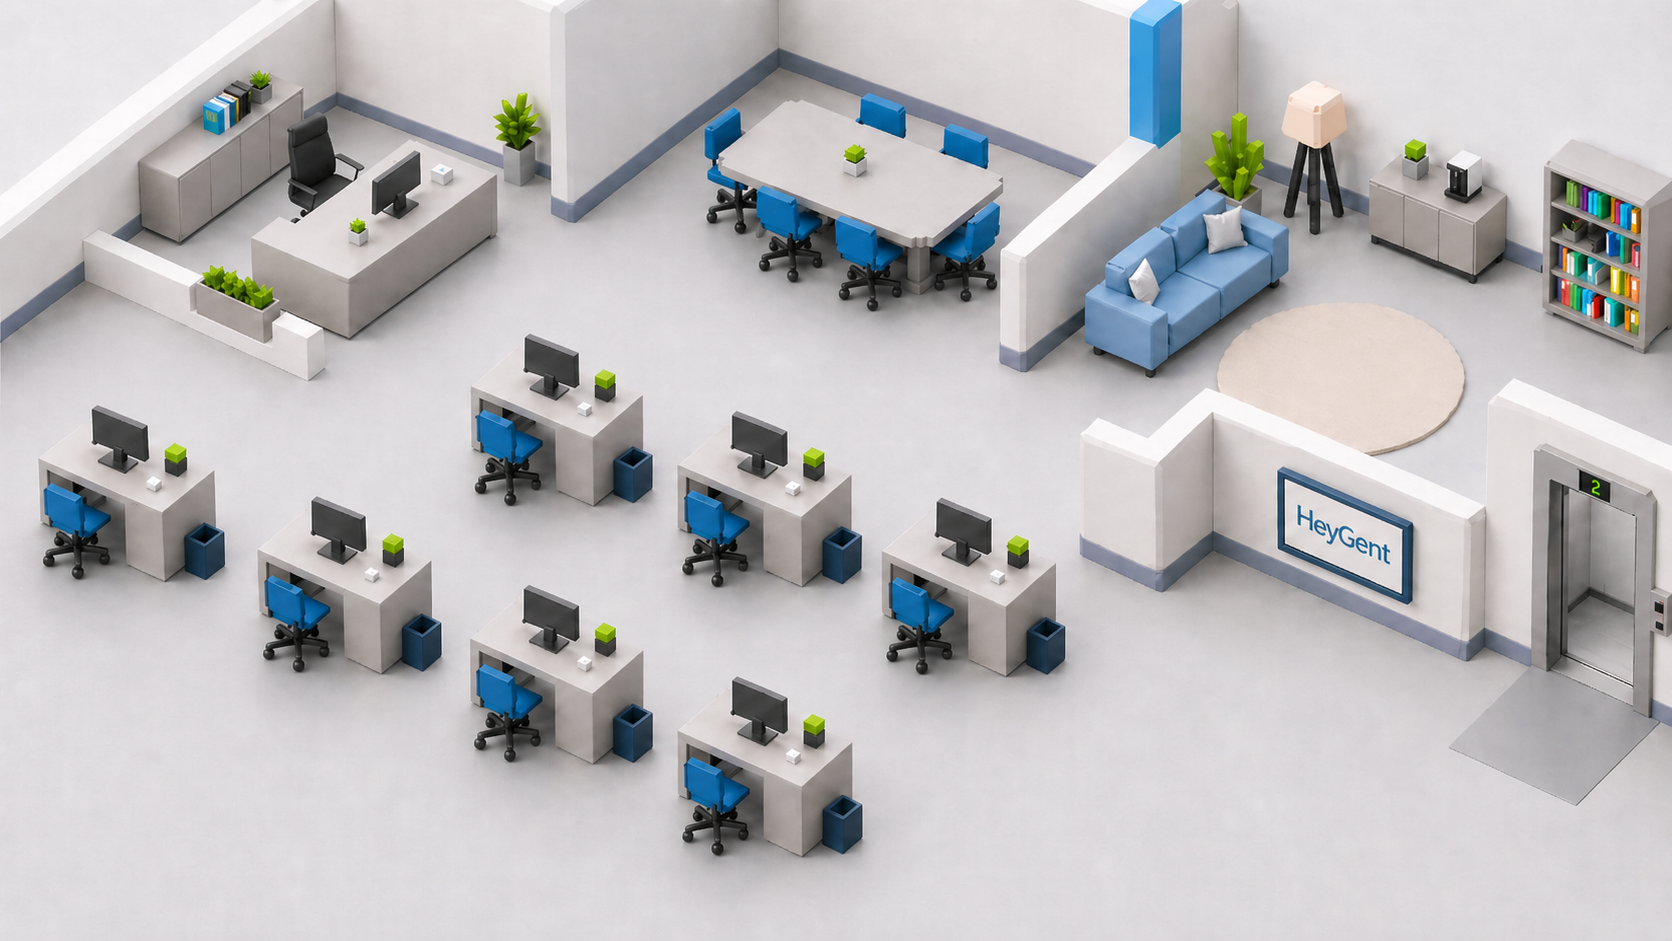
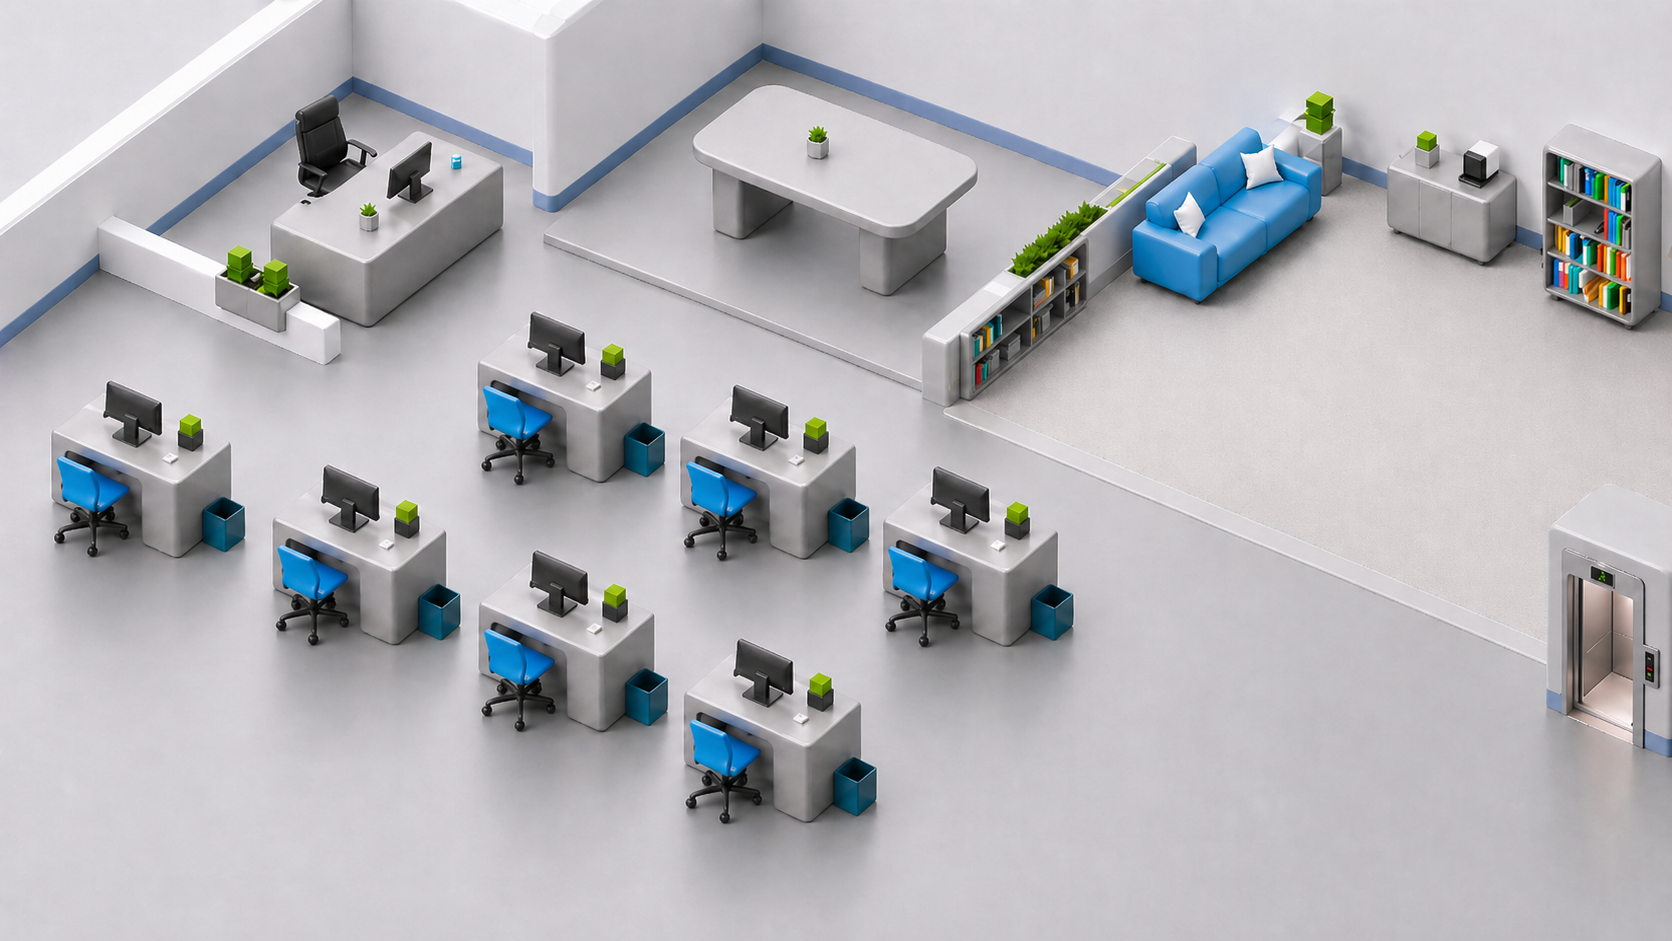
FE-feat : 에이전트 시각화 화면 배경맵 + 에이전트04까지 확정

diff --git a/frontend/src/pages/AgentStatusPage.tsx b/frontend/src/pages/AgentStatusPage.tsx
@@ -1,18 +1,59 @@
 import { useState, useRef } from 'react'
 import { OfficeMap } from '@/components/office/OfficeMap'
-import type { AgentConfig, AgentRuntime } from '@/components/office/types'
+import type {
+  AgentConfig,
+  AgentRuntime,
+  Destination,
+  SittingState,
+} from '@/components/office/types'
 
+// 새 에이전트 추가 시 이 배열에 항목만 추가하면 됩니다.
 const AGENT_CONFIGS: AgentConfig[] = [
   {
     id: 'agent01',
     name: 'Agent 01',
     spritePath: '/assets/agents/agent01',
     initialPosition: { x: 1500, y: 667 },
-    deskPosition: { x: 494, y: 405 },
+    destinations: {
+      desk: { x: 494, y: 405 },
+      sofa: { x: 1157, y: 257 },
+      floorLean: { x: 1440, y: 260 },
+      meeting: { x: 904, y: 95 },
+    },
+  },
+  {
+    id: 'agent02',
+    name: 'Agent 02',
+    spritePath: '/assets/agents/agent02',
+    initialPosition: { x: 1560, y: 720 },
+    destinations: {
+      desk: { x: 630, y: 440 }, // TODO: 실제 2번 책상 좌표로 수정
+      sofa: { x: 1200, y: 290 }, // TODO: 실제 좌표로 수정
+      floorLean: { x: 1390, y: 300 }, // TODO: 실제 좌표로 수정
+      meeting: { x: 950, y: 130 }, // TODO: 실제 좌표로 수정
+    },
   },
 ]
 
 const WALK_SPEED = 100 // px per second on 1600×900 canvas
+// 발 올림(0,2) 300ms, 중립(1,3) 120ms
+const FRAME_DURATIONS = [300, 120, 300, 120] as const
+
+const DESTINATION_MAP: Record<Destination, { targetState: SittingState; label: string }> = {
+  desk: { targetState: 'sitting_desk', label: '책상' },
+  sofa: { targetState: 'sitting_sofa', label: '쇼파' },
+  floorLean: { targetState: 'sitting_floor_lean', label: '벽' },
+  meeting: { targetState: 'sitting_meeting', label: '회의' },
+}
+
+const STATE_LABELS: Record<string, string> = {
+  idle: '대기 중',
+  walking: '이동 중',
+  sitting_desk: '작업 중',
+  sitting_sofa: '휴식 중',
+  sitting_floor_lean: '휴식 중',
+  sitting_meeting: '회의 중',
+}
 
 function calcDuration(from: { x: number; y: number }, to: { x: number; y: number }): number {
   const dx = to.x - from.x
@@ -24,44 +65,52 @@ function initAgents(): AgentRuntime[] {
   return AGENT_CONFIGS.map((config) => ({
     config,
     position: { ...config.initialPosition },
-    state: 'idle',
-    walkFrame: 0,
+    state: 'idle' as const,
+    targetState: 'sitting_desk' as const,
+    walkFrame: 0 as const,
     transitionDuration: 3,
   }))
 }
 
-const STATE_LABELS: Record<string, string> = {
-  idle: '대기 중',
-  walking: '이동 중',
-  sitting: '작업 중',
-}
-
 export function AgentStatusPage() {
   const [agents, setAgents] = useState<AgentRuntime[]>(initAgents)
-  const walkIntervalRef = useRef<ReturnType<typeof setInterval> | null>(null)
+  const walkTimersRef = useRef<Record<string, ReturnType<typeof setTimeout> | undefined>>({})
 
-  const handleMove = (agentId: string) => {
+  const clearWalkTimer = (agentId: string) => {
+    const timer = walkTimersRef.current[agentId]
+    if (timer !== undefined) {
+      clearTimeout(timer)
+      delete walkTimersRef.current[agentId]
+    }
+  }
+
+  const handleMove = (agentId: string, destination: Destination) => {
     setAgents((prev) => {
       const agent = prev.find((a) => a.config.id === agentId)
       if (!agent || agent.state !== 'idle') return prev
 
-      const duration = calcDuration(agent.position, agent.config.deskPosition)
+      const destPos = agent.config.destinations[destination]
+      const { targetState } = DESTINATION_MAP[destination]
+      const duration = calcDuration(agent.position, destPos)
 
-      if (walkIntervalRef.current) clearInterval(walkIntervalRef.current)
-      walkIntervalRef.current = setInterval(() => {
-        setAgents((p) =>
-          p.map((a) =>
-            a.config.id === agentId ? { ...a, walkFrame: ((a.walkFrame + 1) % 2) as 0 | 1 } : a,
-          ),
-        )
-      }, 300)
+      clearWalkTimer(agentId)
+
+      const scheduleWalkStep = (frame: 0 | 1 | 2 | 3) => {
+        walkTimersRef.current[agentId] = setTimeout(() => {
+          const next = ((frame + 1) % 4) as 0 | 1 | 2 | 3
+          setAgents((p) => p.map((a) => (a.config.id === agentId ? { ...a, walkFrame: next } : a)))
+          scheduleWalkStep(next)
+        }, FRAME_DURATIONS[frame])
+      }
+      scheduleWalkStep(0)
 
       return prev.map((a) =>
         a.config.id === agentId
           ? {
               ...a,
               state: 'walking' as const,
-              position: { ...a.config.deskPosition },
+              targetState,
+              position: { ...destPos },
               transitionDuration: duration,
             }
           : a,
@@ -70,24 +119,28 @@ export function AgentStatusPage() {
   }
 
   const handleAgentArrived = (agentId: string) => {
-    if (walkIntervalRef.current) {
-      clearInterval(walkIntervalRef.current)
-      walkIntervalRef.current = null
-    }
+    clearWalkTimer(agentId)
     setAgents((prev) =>
-      prev.map((a) => (a.config.id === agentId ? { ...a, state: 'sitting', walkFrame: 0 } : a)),
+      prev.map((a) => (a.config.id === agentId ? { ...a, state: a.targetState, walkFrame: 0 } : a)),
     )
   }
 
-  const handleReset = () => {
-    if (walkIntervalRef.current) {
-      clearInterval(walkIntervalRef.current)
-      walkIntervalRef.current = null
-    }
-    setAgents(initAgents())
+  const handleReset = (agentId: string) => {
+    clearWalkTimer(agentId)
+    setAgents((prev) =>
+      prev.map((a) =>
+        a.config.id === agentId
+          ? {
+              ...a,
+              position: { ...a.config.initialPosition },
+              state: 'idle' as const,
+              targetState: 'sitting_desk' as const,
+              walkFrame: 0 as const,
+            }
+          : a,
+      ),
+    )
   }
-
-  const agent = agents[0]
 
   return (
     <div className="relative flex flex-1 overflow-hidden">
@@ -95,36 +148,43 @@ export function AgentStatusPage() {
 
       {/* 하단 컨트롤 패널 */}
       <div className="absolute bottom-6 left-1/2 z-20 -translate-x-1/2">
-        <div className="flex items-center gap-4 rounded-2xl border border-white/20 bg-black/60 px-6 py-3 shadow-2xl backdrop-blur-md">
-          <div className="flex items-center gap-2">
-            <span
-              className={`h-2 w-2 rounded-full ${
-                agent.state === 'sitting'
-                  ? 'bg-green-400'
-                  : agent.state === 'walking'
-                    ? 'animate-pulse bg-yellow-400'
-                    : 'bg-slate-400'
-              }`}
-            />
-            <span className="text-sm font-medium text-white">{agent.config.name}</span>
-            <span className="text-xs text-white/60">{STATE_LABELS[agent.state]}</span>
-          </div>
-          <div className="flex gap-2">
-            <button
-              onClick={() => handleMove('agent01')}
-              disabled={agent.state !== 'idle'}
-              className="rounded-xl bg-white px-4 py-1.5 text-sm font-semibold text-gray-900 shadow-sm transition-opacity hover:bg-white/90 disabled:cursor-not-allowed disabled:opacity-40"
-            >
-              출근 시작
-            </button>
-            <button
-              onClick={handleReset}
-              disabled={agent.state === 'idle'}
-              className="rounded-xl border border-white/30 px-4 py-1.5 text-sm font-medium text-white transition-opacity hover:bg-white/10 disabled:cursor-not-allowed disabled:opacity-40"
-            >
-              초기화
-            </button>
-          </div>
+        <div className="flex flex-col gap-2 rounded-2xl border border-white/20 bg-black/60 px-6 py-3 shadow-2xl backdrop-blur-md">
+          {agents.map((agent) => (
+            <div key={agent.config.id} className="flex items-center gap-4">
+              <div className="flex w-36 items-center gap-2">
+                <span
+                  className={`h-2 w-2 shrink-0 rounded-full ${
+                    agent.state.startsWith('sitting')
+                      ? 'bg-green-400'
+                      : agent.state === 'walking'
+                        ? 'animate-pulse bg-yellow-400'
+                        : 'bg-slate-400'
+                  }`}
+                />
+                <span className="text-sm font-medium text-white">{agent.config.name}</span>
+                <span className="text-xs text-white/60">{STATE_LABELS[agent.state]}</span>
+              </div>
+              <div className="flex gap-2">
+                {(Object.keys(DESTINATION_MAP) as Destination[]).map((dest) => (
+                  <button
+                    key={dest}
+                    onClick={() => handleMove(agent.config.id, dest)}
+                    disabled={agent.state !== 'idle'}
+                    className="rounded-xl bg-white px-4 py-1.5 text-sm font-semibold text-gray-900 shadow-sm transition-opacity hover:bg-white/90 disabled:cursor-not-allowed disabled:opacity-40"
+                  >
+                    {DESTINATION_MAP[dest].label}으로
+                  </button>
+                ))}
+                <button
+                  onClick={() => handleReset(agent.config.id)}
+                  disabled={agent.state === 'idle'}
+                  className="rounded-xl border border-white/30 px-4 py-1.5 text-sm font-medium text-white transition-opacity hover:bg-white/10 disabled:cursor-not-allowed disabled:opacity-40"
+                >
+                  초기화
+                </button>
+              </div>
+            </div>
+          ))}
         </div>
       </div>
     </div>

diff --git a/frontend/src/components/office/AgentSprite.tsx b/frontend/src/components/office/AgentSprite.tsx
@@ -3,10 +3,19 @@ import type { AgentRuntime } from './types'
 const SIZE_NORMAL = 200
 const SIZE_SITTING = 260
 
+const SITTING_SPRITES: Record<string, string> = {
+  sitting_desk: 'sit_desk',
+  sitting_sofa: 'sit_sofa',
+  sitting_floor_lean: 'sit_floor_lean',
+  sitting_meeting: 'meeting',
+}
+
+const WALK_FRAMES = ['walk_side_01', 'walk_side_stand', 'walk_side_02', 'walk_side_stand'] as const
+
 function getSpriteSrc(agent: AgentRuntime): string {
   const base = agent.config.spritePath
-  if (agent.state === 'sitting') return `${base}/sit_desk.png`
-  if (agent.state === 'walking') return `${base}/walk_side_0${agent.walkFrame + 1}.png`
+  if (agent.state in SITTING_SPRITES) return `${base}/${SITTING_SPRITES[agent.state]}.png`
+  if (agent.state === 'walking') return `${base}/${WALK_FRAMES[agent.walkFrame]}.png`
   return `${base}/idle_front.png`
 }
 
@@ -17,7 +26,7 @@ interface AgentSpriteProps {
 
 export function AgentSprite({ agent, onArrived }: AgentSpriteProps) {
   const { config, position, state, transitionDuration } = agent
-  const size = state === 'sitting' ? SIZE_SITTING : SIZE_NORMAL
+  const size = state === 'sitting_desk' ? SIZE_SITTING : SIZE_NORMAL
 
   return (
     <div

diff --git a/frontend/src/components/office/types.ts b/frontend/src/components/office/types.ts
@@ -1,17 +1,28 @@
-export type AgentState = 'idle' | 'walking' | 'sitting'
+export type Destination = 'desk' | 'sofa' | 'floorLean' | 'meeting'
+
+export type AgentState =
+  | 'idle'
+  | 'walking'
+  | 'sitting_desk'
+  | 'sitting_sofa'
+  | 'sitting_floor_lean'
+  | 'sitting_meeting'
+
+export type SittingState = Exclude<AgentState, 'idle' | 'walking'>
 
 export interface AgentConfig {
   id: string
   name: string
   spritePath: string
   initialPosition: { x: number; y: number }
-  deskPosition: { x: number; y: number }
+  destinations: Record<Destination, { x: number; y: number }>
 }
 
 export interface AgentRuntime {
   config: AgentConfig
   position: { x: number; y: number }
   state: AgentState
-  walkFrame: 0 | 1
+  targetState: SittingState
+  walkFrame: 0 | 1 | 2 | 3
   transitionDuration: number
 }
